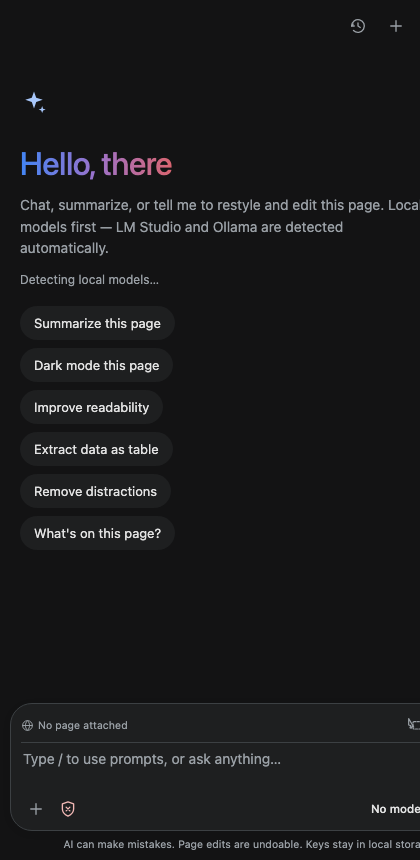
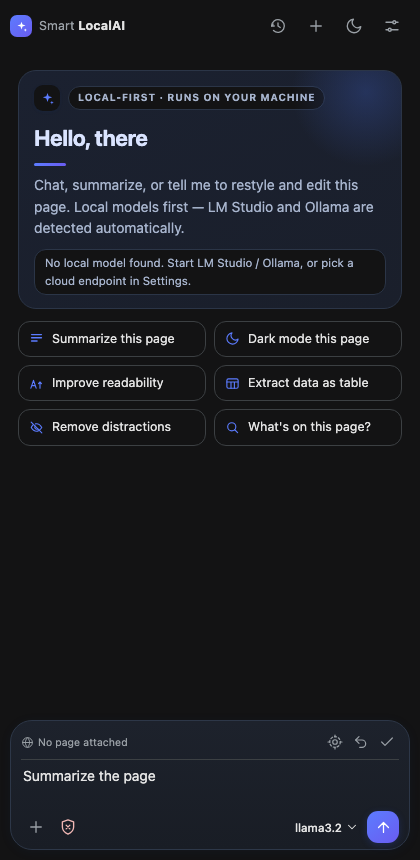
feat: give the sidebar its own look — distinct from Ask Gemini
Reworks the two places that read as Gemini's sidebar, keeping all copy:

- Empty state: replaces the centered sparkle + rainbow gradient greeting
  with a left-aligned hero panel (brand mark, "Local-first" tag, solid
  greeting with a gradient underline, provider status chip). Suggestions
  move from a stacked pill list to a 2-column icon card grid.
- Composer: faint blue tint on the card and rounded-square icon hovers
  instead of circles.
- Icons: new element-picker crosshair (was the devtools-style dashed
  rect + cursor), new suggestion icons, brand lockup in the topbar.
- Removed the "AI can make mistakes" fineprint line.
- Send button keeps the rounded-rectangle gradient shape with the
  original up-arrow glyph.

Also refreshes README screenshots for the new empty state.

diff --git a/src/shared/styles.css b/src/shared/styles.css
@@ -3,11 +3,20 @@
   --muted: #5f6368; --line: #dde3ea; --accent: #0b57d0; --accent-soft: #d3e3fd;
   --user-bubble: #d3e3fd; --danger: #b3261e; --ok: #137333; --radius: 24px;
   --font: "Google Sans", "Product Sans", system-ui, -apple-system, "Segoe UI", sans-serif;
+  /* Smart LocalAI brand tint — deliberately different from the default Google blue */
+  --brand-1: #4c78ff; --brand-2: #4f46e5; --brand-on: #ffffff;
+  --wash-2: #f2f6fe; --panel: #eef4ff; --panel-2: #e4edfe;
+  --panel-line: #d8e4fa; --panel-ink: #1b3260; --panel-muted: #4a5c81;
+  --field: linear-gradient(180deg, #f4f8ff 0%, #e9f1fd 100%); --field-line: #d7e3f8;
 }
 body[data-theme="dark"] {
   --bg: #131314; --surface: #1e1f20; --surface-2: #282a2c; --text: #e3e3e3;
   --muted: #9aa0a6; --line: #3c4043; --accent: #a8c7fa; --accent-soft: #004a77;
   --user-bubble: #004a77; --danger: #f2b8b5; --ok: #81c995;
+  --brand-1: #5c7cff; --brand-2: #6a5cf0; --brand-on: #ffffff;
+  --wash-2: #171a21; --panel: #1b2130; --panel-2: #1a1f2b;
+  --panel-line: #2b3547; --panel-ink: #dae4ff; --panel-muted: #a7b4cd;
+  --field: linear-gradient(180deg, #1d222c 0%, #191d25 100%); --field-line: #2d3748;
 }
 * { box-sizing: border-box; }
 html, body, #root { height: 100%; }
@@ -23,6 +32,15 @@ button { font-family: inherit; cursor: pointer; }
   padding: 8px 10px 4px;
 }
 .topbar-spacer { flex: 1; }
+.brand { display: flex; align-items: center; gap: 7px; min-width: 0; }
+.brand-mark {
+  width: 22px; height: 22px; border-radius: 7px; flex: none;
+  display: inline-grid; place-items: center; color: var(--brand-on);
+  background: linear-gradient(140deg, var(--brand-1), var(--brand-2));
+}
+.brand-mark svg { display: block; }
+.brand-name { font-size: 12.5px; color: var(--muted); white-space: nowrap; letter-spacing: .01em; }
+.brand-name b { color: var(--text); font-weight: 700; }
 .sparkle { color: var(--accent); display: inline-flex; }
 .top-actions { display: flex; gap: 2px; }
 .icon-btn {
@@ -182,22 +200,55 @@ button { font-family: inherit; cursor: pointer; }
 .sel-bar { margin: 0 0 8px; }
 
 .messages { flex: 1; overflow-y: auto; padding: 8px 16px 12px; }
-.empty { padding: 26px 4px 8px; }
-.sparkle-big { font-size: 30px; color: var(--accent); }
+.empty { padding: 14px 2px 8px; }
+
+/* Left-aligned hero panel instead of the centered gradient greeting */
+.hero-card {
+  position: relative; overflow: hidden; border-radius: 18px; padding: 14px 15px 13px;
+  background: linear-gradient(158deg, var(--panel) 0%, var(--panel-2) 100%);
+  border: 1px solid var(--panel-line);
+}
+.hero-card::after {
+  content: ""; position: absolute; top: -54px; right: -40px; width: 150px; height: 150px;
+  border-radius: 999px; pointer-events: none;
+  background: radial-gradient(circle, rgba(76,120,255,.22), rgba(76,120,255,0) 70%);
+}
+.hero-head { display: flex; align-items: center; gap: 8px; margin-bottom: 10px; }
+.hero-mark {
+  width: 26px; height: 26px; border-radius: 9px; flex: none; display: inline-grid; place-items: center;
+  background: var(--bg); color: var(--brand-1); box-shadow: 0 1px 3px rgba(20,48,110,.16);
+}
+.hero-tag {
+  font-size: 10px; font-weight: 700; text-transform: uppercase; letter-spacing: .08em;
+  color: var(--panel-muted); background: var(--bg); border: 1px solid var(--panel-line);
+  border-radius: 999px; padding: 3px 9px; white-space: nowrap; overflow: hidden; text-overflow: ellipsis;
+}
 .greeting {
-  font-size: 32px; font-weight: 500; margin: 10px 0 6px; letter-spacing: -.5px;
-  background: linear-gradient(90deg, #4285f4, #9b72cb, #d96570);
-  -webkit-background-clip: text; background-clip: text; color: transparent; width: fit-content;
+  font-size: 22px; font-weight: 700; letter-spacing: -.3px; margin: 0 0 8px; color: var(--panel-ink);
 }
-.sub { color: var(--muted); margin: 0 0 12px; max-width: 46ch; }
-.provider-status { font-size: 12px; color: var(--muted); margin-bottom: 16px; }
-.provider-status b { color: var(--ok); font-weight: 600; }
-.chips { display: flex; flex-direction: column; gap: 8px; align-items: flex-start; }
+.greeting::after {
+  content: ""; display: block; width: 32px; height: 3px; border-radius: 999px; margin-top: 8px;
+  background: linear-gradient(90deg, var(--brand-1), var(--brand-2));
+}
+.sub { color: var(--panel-muted); margin: 0 0 10px; max-width: 48ch; }
+.provider-status {
+  display: inline-flex; flex-wrap: wrap; align-items: center; gap: 4px;
+  font-size: 11.5px; color: var(--panel-muted); background: var(--bg);
+  border: 1px solid var(--panel-line); border-radius: 12px; padding: 4px 10px;
+}
+.provider-status b { color: var(--ok); font-weight: 700; }
+.chips { display: grid; grid-template-columns: 1fr 1fr; gap: 8px; margin-top: 12px; }
 .suggest {
-  border: 0; background: var(--surface); color: var(--text); border-radius: 999px;
-  padding: 9px 14px; font-size: 13px; text-align: left;
+  display: flex; align-items: center; gap: 8px; border-radius: 12px; padding: 9px 10px;
+  border: 1px solid var(--line); background: var(--bg); color: var(--text);
+  font-size: 12.5px; line-height: 1.3; text-align: left;
+  transition: background 120ms ease-out, border-color 120ms ease-out, transform 120ms ease-out;
 }
-.suggest:hover { background: var(--surface-2); }
+.suggest-icon { flex: none; display: inline-flex; color: var(--brand-1); }
+.suggest-label { min-width: 0; }
+.suggest:hover { background: var(--wash-2); border-color: var(--panel-line); }
+.suggest:active { transform: scale(.97); }
+@media (prefers-reduced-motion: reduce) { .suggest { transition: none; } }
 
 .msg { margin: 14px 0; }
 .msg.user { display: flex; justify-content: flex-end; }
@@ -265,10 +316,11 @@ body[data-theme="dark"] .btn.primary { color: #131314; }
 .btn.danger { color: var(--danger); }
 .btn:disabled { opacity: .5; cursor: default; }
 
-.composer-wrap { padding: 6px 10px 8px; }
+.composer-wrap { padding: 6px 10px 10px; }
 .composer {
-  position: relative; background: var(--surface); border: 1px solid var(--line);
-  border-radius: 22px; padding: 9px 10px 6px; box-shadow: 0 2px 10px rgba(0,0,0,.05);
+  position: relative; border-radius: 22px; padding: 9px 10px 6px;
+  background: var(--field); border: 1px solid var(--field-line);
+  box-shadow: 0 2px 12px rgba(31,66,140,.07);
 }
 .composer textarea {
   width: 100%; border: 0; outline: 0; resize: none; background: transparent;
@@ -278,7 +330,12 @@ body[data-theme="dark"] .btn.primary { color: #131314; }
 .composer-row { display: flex; align-items: center; gap: 4px; flex-wrap: nowrap; }
 .composer-actions { display: flex; align-items: center; gap: 2px; min-width: 0; }
 .composer-actions-right { flex: 1 1 auto; justify-content: flex-end; }
-.composer-icon { width: 30px; height: 30px; }
+.composer-icon { width: 30px; height: 30px; border-radius: 10px; }
+.composer .pill-btn { border-radius: 10px; }
+.composer .pill-btn:hover { background: rgba(255,255,255,.75); }
+body[data-theme="dark"] .composer .pill-btn:hover { background: rgba(255,255,255,.07); }
+.composer .composer-icon:hover { background: rgba(255,255,255,.75); }
+body[data-theme="dark"] .composer .composer-icon:hover { background: rgba(255,255,255,.07); }
 .pill-btn {
   display: inline-flex; align-items: center; gap: 3px; border: 0; background: transparent;
   color: var(--text); border-radius: 999px; padding: 5px 6px; font-size: 11.5px; white-space: nowrap;
@@ -291,7 +348,8 @@ body[data-theme="dark"] .btn.primary { color: #131314; }
 .attach-chips { display: flex; flex-wrap: wrap; gap: 6px; padding: 2px 2px 6px; }
 .attach-chip {
   display: inline-flex; align-items: center; gap: 6px; max-width: 100%;
-  background: var(--surface-2); border-radius: 10px; padding: 3px 4px 3px 3px; font-size: 11px;
+  background: var(--bg); border: 1px solid var(--line);
+  border-radius: 10px; padding: 3px 4px 3px 3px; font-size: 11px;
 }
 .attach-chip img { width: 28px; height: 28px; object-fit: cover; border-radius: 7px; flex: none; }
 .attach-chip svg { flex: none; color: var(--muted); margin-left: 3px; }
@@ -302,13 +360,17 @@ body[data-theme="dark"] .btn.primary { color: #131314; }
 }
 .attach-remove:hover { background: var(--bg); color: var(--text); }
 .send-btn {
-  border: 0; background: var(--accent); color: #fff; width: 30px; height: 30px;
-  border-radius: 999px; display: inline-grid; place-items: center; flex: none; padding: 0;
+  border: 0; color: var(--brand-on); width: 32px; height: 32px; border-radius: 11px;
+  background: linear-gradient(140deg, var(--brand-1), var(--brand-2));
+  box-shadow: 0 2px 7px rgba(48,74,190,.28);
+  display: inline-grid; place-items: center; flex: none; padding: 0;
+  transition: transform 120ms ease-out, filter 120ms ease-out;
 }
-.send-btn.stop { background: var(--danger); }
-body[data-theme="dark"] .send-btn { color: #131314; }
+.send-btn:hover:not(:disabled) { filter: brightness(1.07); }
+.send-btn:active:not(:disabled) { transform: scale(.93); }
+.send-btn.stop { background: var(--danger); box-shadow: none; }
 .send-btn:disabled { opacity: .4; }
-.fineprint { text-align: center; color: var(--muted); font-size: 10.5px; margin: 5px 0 0; }
+@media (prefers-reduced-motion: reduce) { .send-btn { transition: none; } }
 
 .field { display: block; margin: 8px 0; }
 .field span { display: block; font-size: 12px; color: var(--muted); margin-bottom: 4px; }

diff --git a/src/chat/messageList.jsx b/src/chat/messageList.jsx
@@ -3,29 +3,50 @@ import { SUGGESTIONS } from "../shared/constants.js";
 import * as Icons from "../shared/icons.jsx";
 import { ActionCard, Message } from "./message.jsx";
 
+const SUGGEST_ICON = {
+  hide: Icons.EyeOff,
+  moon: Icons.Theme,
+  notes: Icons.Notes,
+  search: Icons.Search,
+  table: Icons.Table,
+  type: Icons.TypeScale,
+};
+
 export function EmptyState({ providerStatus, onSuggestion }) {
   return (
     <section className="empty">
-      <div className="sparkle-big">
-        <Icons.Sparkle size={28} />
+      <div className="hero-card">
+        <div className="hero-head">
+          <span className="hero-mark">
+            <Icons.Sparkle size={15} />
+          </span>
+          <span className="hero-tag">Local-first · runs on your machine</span>
+        </div>
+        <h1 className="greeting">Hello, there</h1>
+        <p className="sub">
+          Chat, summarize, or tell me to restyle and edit this page. Local models first — LM Studio and Ollama are detected
+          automatically.
+        </p>
+        <div className="provider-status">{providerStatus}</div>
       </div>
-      <h1 className="greeting">Hello, there</h1>
-      <p className="sub">
-        Chat, summarize, or tell me to restyle and edit this page. Local models first — LM Studio and Ollama are detected
-        automatically.
-      </p>
-      <div className="provider-status">{providerStatus}</div>
+
       <div className="chips">
-        {SUGGESTIONS.map((suggestion) => (
-          <button
-            className="suggest"
-            key={suggestion.label}
-            onClick={() => onSuggestion(suggestion)}
-            type="button"
-          >
-            {suggestion.label}
-          </button>
-        ))}
+        {SUGGESTIONS.map((suggestion) => {
+          const Icon = SUGGEST_ICON[suggestion.icon] || Icons.Sparkle;
+          return (
+            <button
+              className="suggest"
+              key={suggestion.label}
+              onClick={() => onSuggestion(suggestion)}
+              type="button"
+            >
+              <span className="suggest-icon">
+                <Icon size={15} />
+              </span>
+              <span className="suggest-label">{suggestion.label}</span>
+            </button>
+          );
+        })}
       </div>
     </section>
   );

diff --git a/src/shared/icons.jsx b/src/shared/icons.jsx
@@ -141,11 +141,54 @@ export function Doc({ size }) {
     </Base>
   );
 }
-export function Inspect({ size }) {
+export function Target({ size }) {
   return (
     <Base size={size}>
-      <rect height="11" rx="1.5" strokeDasharray="3 2" width="12" x="9" y="7" />
-      <path d="M2.5 2.5 10 15l-2.4-.7-1.4 2.7-1.7-1L5.7 13 2.5 12z" />
+      <circle cx="12" cy="12" r="3.4" />
+      <circle cx="12" cy="12" r="8" strokeDasharray="3 3" />
+      <path d="M12 1.5v3M12 19.5v3M1.5 12h3M19.5 12h3" />
+    </Base>
+  );
+}
+export function Notes({ size }) {
+  return (
+    <Base filled size={size}>
+      <rect height="2.3" rx="1.15" width="18" x="3" y="4.6" />
+      <rect height="2.3" rx="1.15" width="18" x="3" y="9.7" />
+      <rect height="2.3" rx="1.15" width="11" x="3" y="14.8" />
+    </Base>
+  );
+}
+export function TypeScale({ size }) {
+  return (
+    <Base size={size}>
+      <path d="M3 19.5 7.2 7l4.2 12.5M4.6 15.3h5.2" />
+      <path d="M17.6 19.5V9.6M15.3 12.1l2.3-2.5 2.3 2.5" />
+    </Base>
+  );
+}
+export function Table({ size }) {
+  return (
+    <Base size={size}>
+      <rect height="15" rx="2.5" width="18" x="3" y="4.5" />
+      <path d="M3 9.5h18M9.6 9.5v10M15 9.5v10" />
+    </Base>
+  );
+}
+export function EyeOff({ size }) {
+  return (
+    <Base size={size}>
+      <path d="M3.5 3.5l17 17" />
+      <path d="M10.4 6.2A9.6 9.6 0 0 1 12 6.1c5 0 8.4 5.9 8.4 5.9a15.6 15.6 0 0 1-3.2 3.6M6.5 7.9A15.4 15.4 0 0 0 3.6 12s3.4 5.9 8.4 5.9c1.2 0 2.3-.3 3.3-.8" />
+      <path d="M9.9 9.9a3 3 0 0 0 4.2 4.2" />
+    </Base>
+  );
+}
+export function Search({ size }) {
+  return (
+    <Base size={size}>
+      <circle cx="10.8" cy="10.8" r="6.5" />
+      <path d="m15.6 15.6 4.6 4.6" />
     </Base>
   );
 }

diff --git a/src/shared/constants.js b/src/shared/constants.js
@@ -35,24 +35,27 @@ export const BUILTIN_PROMPTS = [
 ];
 
 export const SUGGESTIONS = [
-  { label: "Summarize this page", prompt: "Summarize this page: key points, then a one-line TL;DR." },
+  { icon: "notes", label: "Summarize this page", prompt: "Summarize this page: key points, then a one-line TL;DR." },
   {
+    icon: "moon",
     label: "Dark mode this page",
     mode: "agent",
     prompt: "Make this page easier to read: apply a clean dark mode with CSS. Keep layout intact.",
   },
   {
+    icon: "type",
     label: "Improve readability",
     mode: "agent",
     prompt: "Improve readability of this page: larger comfortable font, wider line height, max-width on main text. Apply with CSS.",
   },
-  { label: "Extract data as table", prompt: "Extract the main data from this page as a clean markdown table." },
+  { icon: "table", label: "Extract data as table", prompt: "Extract the main data from this page as a clean markdown table." },
   {
+    icon: "hide",
     label: "Remove distractions",
     mode: "agent",
     prompt: "Remove distractions on this page: hide popups, sticky banners, and sidebars not needed for reading.",
   },
-  { label: "What's on this page?", prompt: "What can I do on this page? List the main actions and content briefly." },
+  { icon: "search", label: "What's on this page?", prompt: "What can I do on this page? List the main actions and content briefly." },
 ];
 
 export const RESPONSE_FORMAT =

diff --git a/src/shared/header.jsx b/src/shared/header.jsx
@@ -4,6 +4,14 @@ import * as Icons from "./icons.jsx";
 export function Header({ openMenu, onToggleMenu, onNewChat, onToggleTheme, onOpenSettings, historyMenuProps }) {
   return (
     <header className="topbar">
+      <div className="brand">
+        <span className="brand-mark">
+          <Icons.Sparkle size={13} />
+        </span>
+        <span className="brand-name">
+          Smart <b>LocalAI</b>
+        </span>
+      </div>
       <span className="topbar-spacer" />
       <div className="top-actions">
         <button
@@ -52,7 +60,7 @@ export function SharingBar({ page, onToggleAttach, onPick, onUndo, onClearPicked
           title="Pick element on page"
           type="button"
         >
-          <Icons.Inspect size={16} />
+          <Icons.Target size={16} />
         </button>
         <button aria-label="Undo page edit" className="icon-btn icon-btn-sm" onClick={onUndo} title="Undo page edit" type="button">
           <Icons.Undo size={16} />

diff --git a/src/chat/composer.jsx b/src/chat/composer.jsx
@@ -159,7 +159,6 @@ export default function Composer({
         {openMenu === "model" && <div className="menu-anchor menu-anchor-model">{modelMenu}</div>}
         {openMenu === "prompts" && <div className="menu-anchor menu-anchor-left">{promptMenu}</div>}
       </form>
-      <p className="fineprint">AI can make mistakes. Page edits are undoable. Keys stay in local storage.</p>
     </footer>
   );
 }
